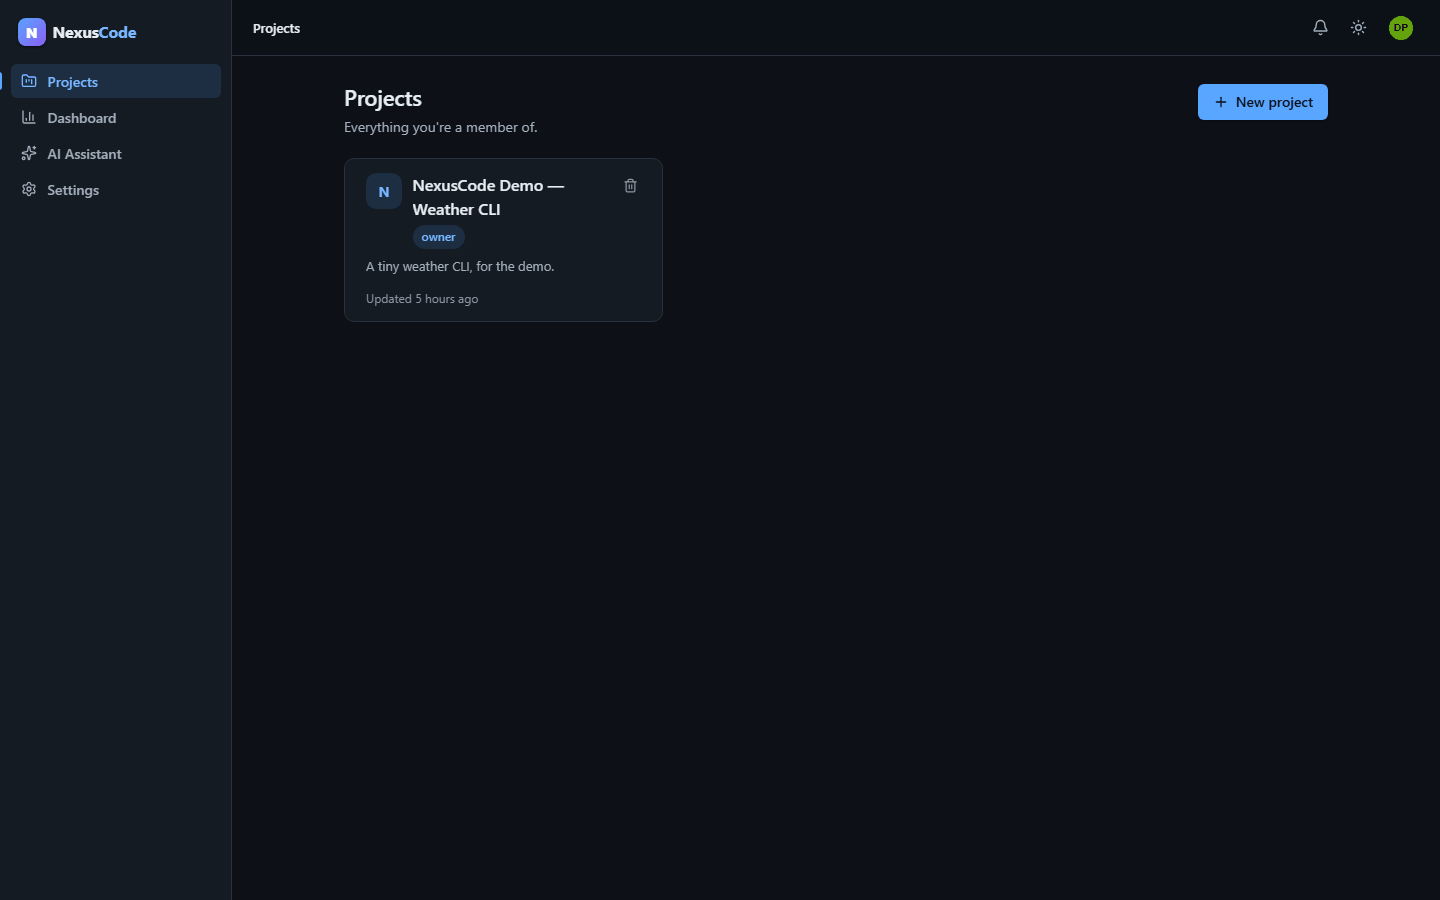
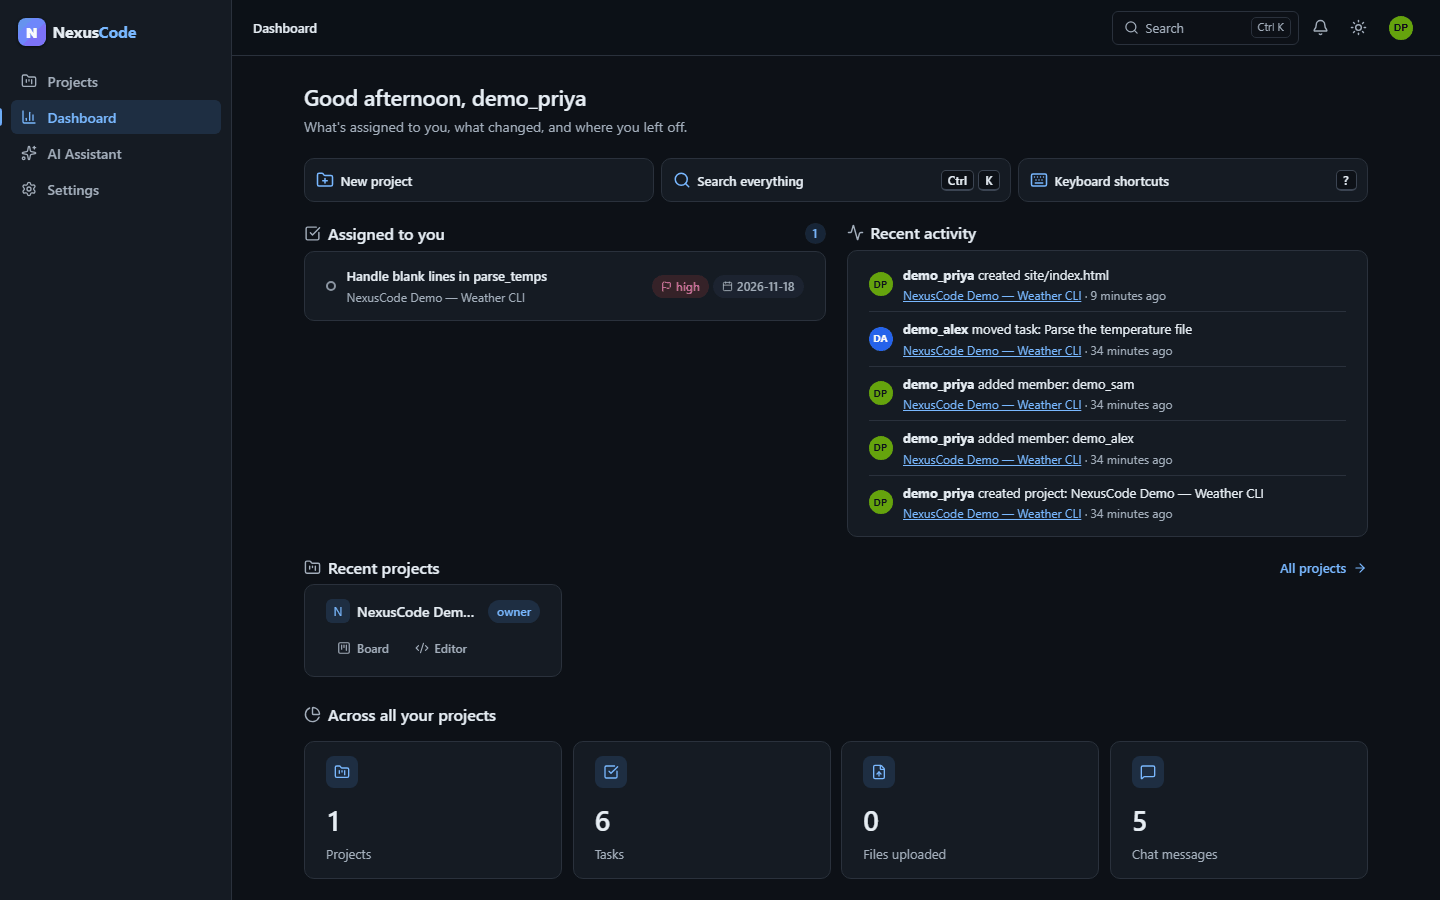
docs(c12): screenshots, design system, README and changelog
Re-took the dashboard and board screenshots, added the shortcuts overlay,
welcome tour and appearance settings, and re-made the landing page's
images from the same local run. DESIGN-SYSTEM documents accents and
contrast, the shortcut rules and the new shared pieces. The tour panel
no longer draws a focus ring around itself when it opens.

diff --git a/frontend/src/styles/onboarding.css b/frontend/src/styles/onboarding.css
@@ -1,7 +1,7 @@
 /* Welcome tour: a getting-started checklist in the bottom corner (not modal) */
 .tour { position: fixed; right: var(--space-4); bottom: var(--space-4); z-index: calc(var(--z-dropdown) - 1); width: min(380px, calc(100vw - 2 * var(--space-4))); max-height: calc(100vh - var(--header-height) - 2 * var(--space-4)); overflow-y: auto; padding: var(--space-4); border: 1px solid var(--color-border); border-radius: var(--radius-xl); background: var(--color-surface); box-shadow: var(--shadow-lg); animation: nx-rise-in var(--duration-slow) var(--ease-out) both; }
 .tour:focus { outline: none; }
-.tour:focus-visible { outline: 2px solid var(--color-focus); outline-offset: 2px; }
+/* Focus moves here when it opens; the panel is not a control, so no ring */
 .tour__head { display: flex; align-items: flex-start; justify-content: space-between; gap: var(--space-2); }
 .tour__title { margin: 0; font-size: var(--text-lg); font-weight: var(--weight-semibold); color: var(--color-text); }
 .tour__progress-text { margin-top: 2px; color: var(--color-text-muted); font-size: var(--text-xs); }

diff --git a/docs/DESIGN-SYSTEM.md b/docs/DESIGN-SYSTEM.md
@@ -132,6 +132,54 @@ Every page has loading, empty and error states. Its skeleton has the same size a
 | Meeting | Speaking ring pulses (opacity); tiles scale in; status dot blinks while joining or reconnecting | `nx-blink`; steady under reduced motion |
 | Landing | Hero staggers in (CSS only, so the LCP text paints immediately); sections reveal once; feature cards lift on hover | `.motion-stagger`, `useReveal`, transitions |
 
+## Accents and contrast
+
+`theme/appearance.js` is the source of truth for five accent presets (blue, the default,
+then violet, green, orange and pink) and a high-contrast mode. They are chosen in
+Settings > Appearance, kept on this device, and applied as `data-accent` and
+`data-contrast` on `<html>`. `index.html` applies them before the first paint, like the
+theme. `styles/accents.css` holds the matching token overrides:
+
+- Each accent sets `--color-accent`, `-hover`, `-text`, `-soft`, `--color-on-accent` and
+  `--color-focus`.
+- High contrast sets stronger text, borders and focus rings.
+
+`theme/appearance.test.jsx` checks that the CSS matches the JS. It also checks WCAG AA for
+all 20 combinations (light or dark × accent × contrast):
+
+| What | Minimum |
+| --- | --- |
+| Body text in high contrast | 7:1 |
+| Body text otherwise | 4.5:1 |
+| Muted text, subtle text and accent text, on every surface and on the accent tint | 4.5:1 |
+| Text on a filled accent button | 4.5:1 |
+| The accent as a UI colour (focus rings) | 3:1 |
+
+Add an accent in `ACCENTS`, regenerate the CSS block, and the test covers it.
+
+## Keyboard shortcuts
+
+`shortcuts/shortcuts.js` lists every shortcut once. The `?` overlay (`ShortcutsDialog`,
+lazy), tooltips (`<Tooltip shortcut={hint("theme")}>`), menus (`hint` on a menu item) and
+the palette read from it. The rules:
+
+- Single keys (`?`, `n`, `/`, `Shift+T`, `g` then a letter) never fire while you type in
+  a field or in Monaco (`isTypingTarget`), or while a dialog is open.
+- Editor shortcuts use Alt+key (matched by `event.code`, so Mac Option characters work)
+  or Ctrl/Cmd+Enter. Monaco leaves both free.
+- Show keys with `<Kbd keys={["Mod", "K"]} />`. `Mod` renders as Ctrl, or ⌘ on a Mac.
+
+## Shared pieces added in C12
+
+| Piece | Where | Notes |
+| --- | --- | --- |
+| `Kbd` | `components/ui/Kbd.jsx` | Keycaps; `"then"` between keys for sequences. |
+| `ShortcutsDialog` | `shortcuts/` | Built on `Modal` (`size="lg"`), so it is a bottom sheet on phones. |
+| `WelcomeTour` | `onboarding/` | A non-modal checklist in the corner. Escape closes it, and progress is kept per user (`tour.js`). |
+| Bottom navigation | `AppShell`, `.bottom-nav` | Under 760 px wide. Targets are 44 px and it respects the safe area. Sets `--bottom-nav-height` so the tour, toasts and the update prompt sit above it. |
+| Update prompt | `pwa/register.js` | Plain DOM: no React needed, and not in the main bundle. |
+| Dashboard rows | `styles/home.css` | Lazy with the page. |
+
 ## Icons
 
 Icons come from `lucide-react` 1.65, imported per icon: `import { Bot } from "lucide-react"`.
@@ -142,10 +190,16 @@ Icons come from `lucide-react` 1.65, imported per icon: `import { Bot } from "lu
 
 ## Monaco
 
-The editor, the AI diff and the agent diffs use `nexus-light` and `nexus-dark`. These are defined from the token values in `editor/monacoThemes.js`; Monaco cannot read CSS variables. Pass these two props to any new `<Editor>` or `<DiffEditor>`:
+The editor, the AI diff and the agent diffs use one theme per light/dark × accent ×
+contrast (`nexus-dark-blue`, `nexus-light-violet-hc`, and so on). They are defined from
+the token values in `editor/monacoThemes.js`, because Monaco cannot read CSS variables.
+Pass these two props to any new `<Editor>` or `<DiffEditor>`:
 
 - `beforeMount={defineNexusThemes}`
-- `theme={monacoTheme(theme)}`
+- `theme={monacoTheme(theme, accent, contrast)}`, all three from `useTheme()`
+
+The editor's text size, word wrap and minimap come from `editor/viewSettings.js`, which
+keeps them on this device.
 
 ## Bundle rules
 

diff --git a/README.md b/README.md
@@ -27,6 +27,10 @@
 | 📰 | **Activity feed and notifications** | See what changed in a project, and get notified when you are added, assigned a task or given a new role. |
 | 💬 | **Project chat** | Per-project chat over WebSockets, with history and who is online. |
 | 📂 | **Files, dashboards** | Upload project files (Cloudinary), a personal analytics dashboard, and an admin dashboard for admin accounts. |
+| 🏠 | **Dashboard home** | Open tasks assigned to you across your recent projects (overdue first), a combined activity feed, recent projects and quick actions, above the totals. New accounts get a short, skippable **welcome tour** (create a project, invite a teammate, open the editor, try the palette, start a meeting). |
+| ⌨ | **Keyboard first** | Press **?** for every shortcut: `g` then `p`/`d`/`b`/`e`/`m` to move around, `n` new task, `/` filter the board, **Shift+T** theme, **Alt+N** new file and **Alt+1/2/3** for the editor's panels (none clash with Monaco). Hints appear in tooltips and menus. |
+| 🎨 | **Themes** | Light or dark, five accent colours and a high-contrast mode, applied before the first paint and to Monaco too. Every combination meets WCAG AA (checked by a test). |
+| 📲 | **Installable app** | A web app manifest and an app-shell service worker: install NexusCode on desktop or phone, with an offline page. It never caches API or sign-in data, and pages always come from the network, so a deploy is never hidden behind stale code. Phones get a bottom navigation bar. |
 | ⌨ | **Command palette** | **Ctrl/Cmd+K** (or the header's Search button) finds pages, actions, projects and the current project's tasks and files with fuzzy matching and recent items. Editing actions only appear for owners and editors. |
 | 📈 | **Project analytics** | Per project, for the last 7, 14 or 30 days: burn-up/down, throughput, cycle time (median and 90th percentile), workload per member, overdue tasks, activity and recently edited files. Every chart has a text summary and a data table. |
 | 🕘 | **File version history** | Every code file keeps up to 50 versions, snapshotted on the server as it is saved (at most one a minute, never duplicates, plus the state everyone leaves it in). Browse them with author and time, diff any version against the current text in Monaco, and (owners and editors) restore it: people editing live see the restore at once, and the old text stays in the history. |
@@ -48,6 +52,10 @@
   <tr>
     <td><img src="docs/screenshots/14-version-history.png" alt="The version history of src/weather.py: a timeline of three versions and a diff of one against the current text, with Restore this version" /></td>
     <td><img src="docs/screenshots/13-zip-import.png" alt="The ZIP import preview with new files, a duplicate and skipped entries" /></td>
+  </tr>
+  <tr>
+    <td><img src="docs/screenshots/01-dashboard.png" alt="The dashboard home: quick actions, tasks assigned to you, recent activity and recent projects" /></td>
+    <td><img src="docs/screenshots/15-shortcuts.png" alt="The keyboard shortcuts overlay, opened with the question mark key" /></td>
   </tr>
 </table>
 
@@ -229,9 +237,9 @@ Current results (run on this branch):
 
 | Suite | Result |
 |---|---|
-| Backend, SQLite | 1410 passed |
-| Backend, Postgres (throwaway) | 1410 passed |
-| Frontend (Vitest) | 817 passed (59 files) |
+| Backend, SQLite | 1438 passed |
+| Backend, Postgres (throwaway) | 1438 passed |
+| Frontend (Vitest) | 907 passed (66 files) |
 | ruff · eslint · vite build | clean |
 
 CI runs the same on every push and pull request (backend against Postgres 16).

diff --git a/CHANGELOG.md b/CHANGELOG.md
@@ -3,7 +3,53 @@
 Notable changes, newest first. The project was built in phases (C1 to C11), each merged
 as one pull request into `main`. Tags mark the stable points.
 
-## C11b: hardening (unreleased)
+## C12: UI upgrades (unreleased)
+
+Frontend only: no API, database or backend behaviour changed. The plan and audit are in
+[docs/UI-UPGRADE-PLAN.md](docs/UI-UPGRADE-PLAN.md).
+
+- **Dashboard home:** open tasks assigned to you across your recent projects (overdue
+  first), a combined activity feed, recent projects and quick actions, above the
+  existing totals. It has skeletons, empty states, and per-project failure isolation.
+- **Welcome tour:** new accounts get a skippable getting-started checklist with five
+  steps. It is not modal, Escape closes it, progress is kept per user on the device,
+  and you can reopen it from the account menu or the palette.
+- **Keyboard first:**
+  - Press `?` for every shortcut.
+  - Navigation: `g` then a letter.
+  - Board: `n` for a new task, `/` to filter.
+  - Shift+T switches the theme.
+  - Editor: Alt+N for a new file, Alt+1/2/3 for the panels.
+  - Single keys never fire while you are typing or in Monaco.
+  - Hints appear in tooltips, menus and the palette.
+- **Themes:** five accent colours and a high-contrast mode, applied before the first
+  paint and to Monaco. A test checks WCAG AA for all 20 combinations.
+- **Board:** filter by text, priority and assignee ("Assigned to me"), see the match
+  count, clear in one click, and a done/total progress bar.
+- **Editor:** text size, word wrap and minimap, remembered; close other or all tabs;
+  the open file's path is shown above the code.
+- **Mobile:** a bottom navigation bar on phones, with 44 px targets. Dialogs were
+  already bottom sheets.
+- **Installable app (PWA):**
+  - A manifest, app icons (the in-app N mark, replacing Vite's default favicon) and
+    theme-color.
+  - An offline page.
+  - An app-shell service worker that never caches API or auth data, always fetches
+    pages from the network, and caches only content-hashed `/assets` under per-build
+    names.
+  - A "new version" prompt: the new worker takes over only when you click Reload.
+- **Fix:** the CSP hash for `index.html`'s inline script is now taken from the file as
+  committed (LF).
+- **Verified:**
+  - axe-core, 192 runs: 16 pages × light/dark × 6 looks (default, four accents, high
+    contrast). There were 0 violations of any impact.
+  - No horizontal scroll at 320 or 390 px.
+  - Smoke run: 11/11 steps, with 0 console errors and 0 failed requests.
+  - The report-only CSP shows only the known preview follow-up, F1.
+  - Tests: frontend 907, backend 1438 on SQLite and 1438 on a fresh Postgres.
+  - The main JS bundle grew by 4.31 kB gzip (94.37 to 98.68), inside the +5 kB budget.
+
+
 
 - **Security:** per-IP rate limits key on the address Render's proxy appended to
   `X-Forwarded-For` (`TRUSTED_PROXY_HOPS`, default 1), never the caller's own entry.

diff --git a/docs/screenshots/README.md b/docs/screenshots/README.md
@@ -15,14 +15,25 @@ halfway: `00`, `01`, `02`, `03`, `04` and `08`, plus `frontend/public/og-image.p
 - `10` needs a real LiveKit call.
 Re-taking those is a manual step and is listed below.
 
+**Updated on 2026-11-16 after the C12 UI upgrades.** `01` and `02` were re-taken, and
+`15`, `16` and `17` were added. They were captured from the production build served with
+`vercel.json`'s headers, in the dark theme with reduced motion. The landing page's four
+`.webp` images were re-made from the same run.
+
+| File | What it shows | How it was made |
+|------|---------------|-----------------|
+| `15-shortcuts.png` | The `?` keyboard shortcuts overlay over the board. | Automated. |
+| `16-welcome-tour.png` | The welcome tour for a new account (`demo_empty`, no projects). | Automated. |
+| `17-appearance.png` | Settings > Appearance with the violet accent chosen. | Automated. |
+
 The landing page's own screenshots (`frontend/public/landing/*.webp`, board and editor in
 both themes) come from the same local demo stack.
 
 | File | What it shows | How it was made |
 |------|---------------|-----------------|
 | `00-landing.png` | The public landing page at `/` (signed out). | Automated. |
-| `01-dashboard.png` | The project list after signing in as `demo_priya`. | Automated. |
-| `02-board.png` | The Kanban board with the seeded tasks across To Do / In Progress / Done. | Automated. |
+| `01-dashboard.png` | The dashboard home as `demo_priya`: quick actions, the task assigned to her, recent activity, recent projects and totals (re-taken in C12). | Automated. |
+| `02-board.png` | The Kanban board with the seeded tasks across To Do / In Progress / Done, with the C12 filters and progress bar. | Automated. |
 | `03-members-roles.png` | The Members panel: owner, editor, viewer. | Automated (element). |
 | `04-editor-collab.png` | `src/weather.py` open as `demo_priya`, with `demo_alex`'s live cursor and name ("2 people editing"). | Automated: two signed-in browser sessions on the same file. |
 | `06-agent-fix.png` | A real AI-agent run on the seeded bug: goal, quota ("1 of 2 runs left today"), step counter, timeline, and a change waiting for review. | Automated, one real agent run (Gemini). The bottom edge cuts the review buttons; `07` shows them. |

diff --git a/docs/UI-UPGRADE-PLAN.md b/docs/UI-UPGRADE-PLAN.md
@@ -76,3 +76,24 @@ lazy-loaded.
 - The main bundle stays within +5 kB gzip. The tour, the shortcuts dialog and the
   service-worker registration are all lazy.
 - `prefers-reduced-motion` and the in-app motion switch govern every new animation.
+
+## Status after C12
+
+| # | Status |
+| --- | --- |
+| 1, 2, 3, 4, 5, 7, 8, 9, 10, 11, 12, 14 | Done |
+| 6 | Already in place: dialogs were bottom sheets on phones since C6 |
+| 13 | Not done: creating a task can't set its column, so a per-column add would need a second request or an API change |
+| 15 | Not done: labels and inline edit need API fields |
+
+**Bundle.** The main JS went from 294.08 kB (94.37 kB gzip) to 306.94 kB (98.68 kB gzip),
+which is +4.31 kB gzip. The main CSS went from 12.34 kB to 13.64 kB gzip. Everything else
+is in lazy chunks:
+
+| Chunk | Size (gzip) |
+| --- | --- |
+| Shortcuts overlay | about 1 kB |
+| Welcome tour | about 2 kB |
+| Service-worker registration | 0.73 kB |
+| Dashboard | its page chunk, plus `home.css` |
+
